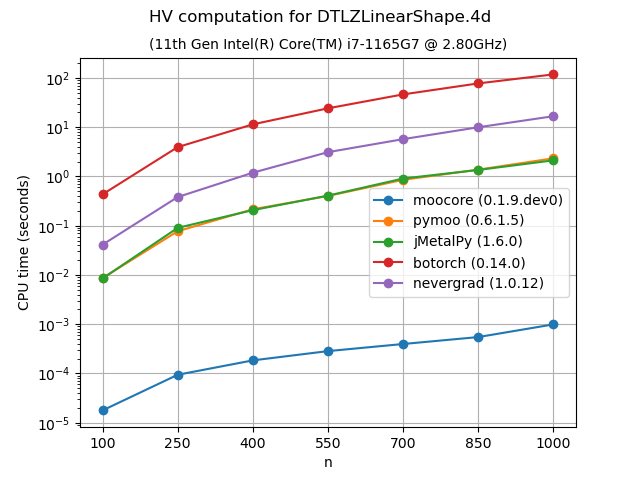
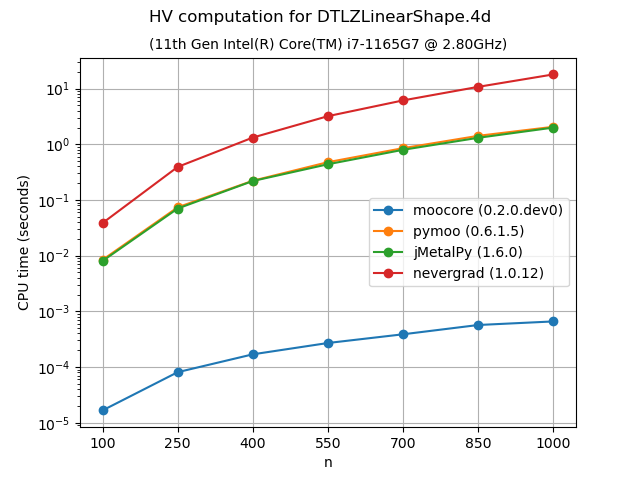
python/ Benchmark hypervolume provided by fast-pareto.

diff --git a/python/benchmarks/bench_hv.py b/python/benchmarks/bench_hv.py
@@ -17,7 +17,7 @@ import torch
 from pymoo.indicators.hv import Hypervolume as pymoo_HV
 from jmetal.core.quality_indicator import HyperVolume as jmetal_HV
 from nevergrad.optimization.multiobjective import HypervolumeIndicator as ng_HV
-
+from fast_pareto import hypervolume as fp_hv
 
 # from trieste.acquisition.multi_objective import Pareto as trieste_Pareto
 # import tensorflow as tf
@@ -41,7 +41,7 @@ files = {
         range=(100, 600, 100),
     ),
     "DTLZLinearShape.6d": dict(
-        file=path_to_data + "DTLZLinearShape.6d.front.700pts.10",
+        file=path_to_data + "DTLZLinearShape.6d.front.700pts.10.xz",
         range=(100, 500, 100),
     ),
 }
@@ -66,17 +66,23 @@ for name in names:
         "moocore": moocore.Hypervolume(ref=ref),
         "pymoo": lambda z, hv=pymoo_HV(ref_point=ref): hv(z),
         "jMetalPy": lambda z, hv=jmetal_HV(ref): hv.compute(z),
+        "nevergrad": lambda z, hv=ng_HV(ref): hv.compute(z),
+        "botorch": lambda z,
+        hv=botorch_HV(ref_point=torch.from_numpy(-ref)): hv.compute(z),
+        "fast_pareto": lambda z, ref=ref: fp_hv(
+            z, ref_point=ref, assume_pareto=False
+        ),
     }
-    if dim < 6:
+    if dim >= 6:
         # Nevergrad is too slow
-        benchmarks["nevergrad"] = lambda z, hv=ng_HV(ref): hv.compute(z)
-    if dim < 5:
+        del benchmarks["nevergrad"]
+    if dim >= 4:
         ## Trieste is hundreds of times slower than botorch. It is so slow that
         ## we cannot run the benchmark with the initial value of 500 points.
         # benchmarks["trieste"] = lambda z, tf_ref=tf.convert_to_tensor(ref): float(trieste_Pareto(z, already_non_dominated=True).hypervolume_indicator(tf_ref))
-        benchmarks["botorch"] = lambda z, hv=botorch_HV(
-            ref_point=torch.from_numpy(-ref)
-        ): hv.compute(z)
+        del benchmarks["botorch"]
+        # fast_pareto is more than x10_000 slower than moocore in 4D
+        del benchmarks["fast_pareto"]
 
     bench = Bench(
         name=name,

diff --git a/python/doc/source/benchmarks.inc.rst b/python/doc/source/benchmarks.inc.rst
@@ -88,7 +88,7 @@ random within the hyper-cube.
 Exact computation of hypervolume
 --------------------------------
 
-The following plots compare the speed of computing the :ref:`hypervolume indicator <hypervolume_metric>` in 3D, 4D, 5D and 6D. As the plots show, `moocore`_ is 100 times faster than the other packages and 1000 times faster than `BoTorch`_ and, by extension, `Xopt`_ and `BoFire`_.  `BoTorch`_ is not included for more than 4 objectives because **it is tens of thousands of times slower** than `moocore`_. `Nevergrad`_ is not included for more than 5 objectives for the same reason.
+The following plots compare the speed of computing the :ref:`hypervolume indicator <hypervolume_metric>` in 3D, 4D, 5D and 6D. As the plots show, `moocore`_ is 100 times faster than the other packages and 1000 times faster than `BoTorch`_ and, by extension, `Xopt`_ and `BoFire`_.  `BoTorch`_ and `fast-pareto`_ is not included for more than 3 objectives because **they are tens of thousands of times slower** than `moocore`_.  `Nevergrad`_ is not included for more than 5 objectives for the same reason.
 
 |hv_bench-DTLZLinearShape-3d| |hv_bench-DTLZLinearShape-4d|
 
